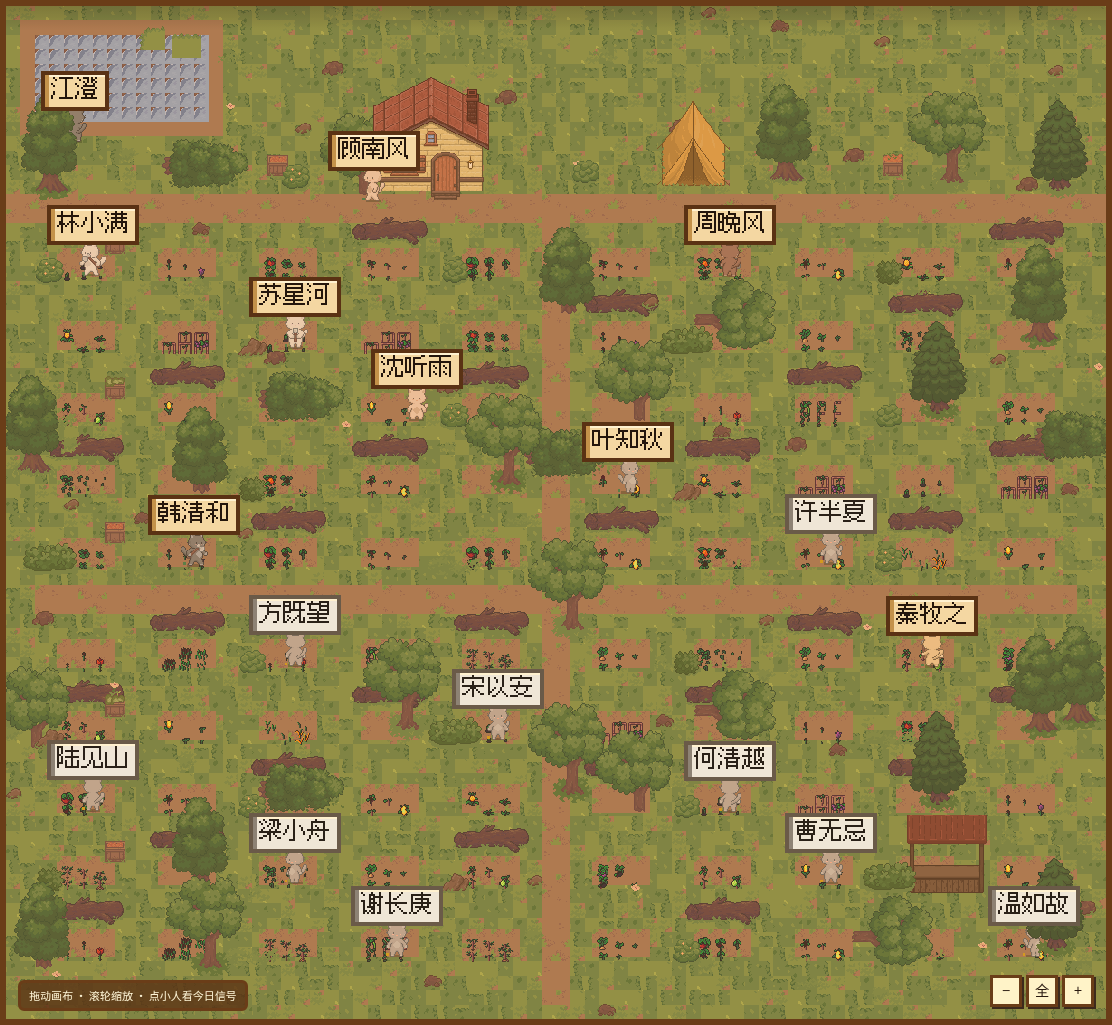
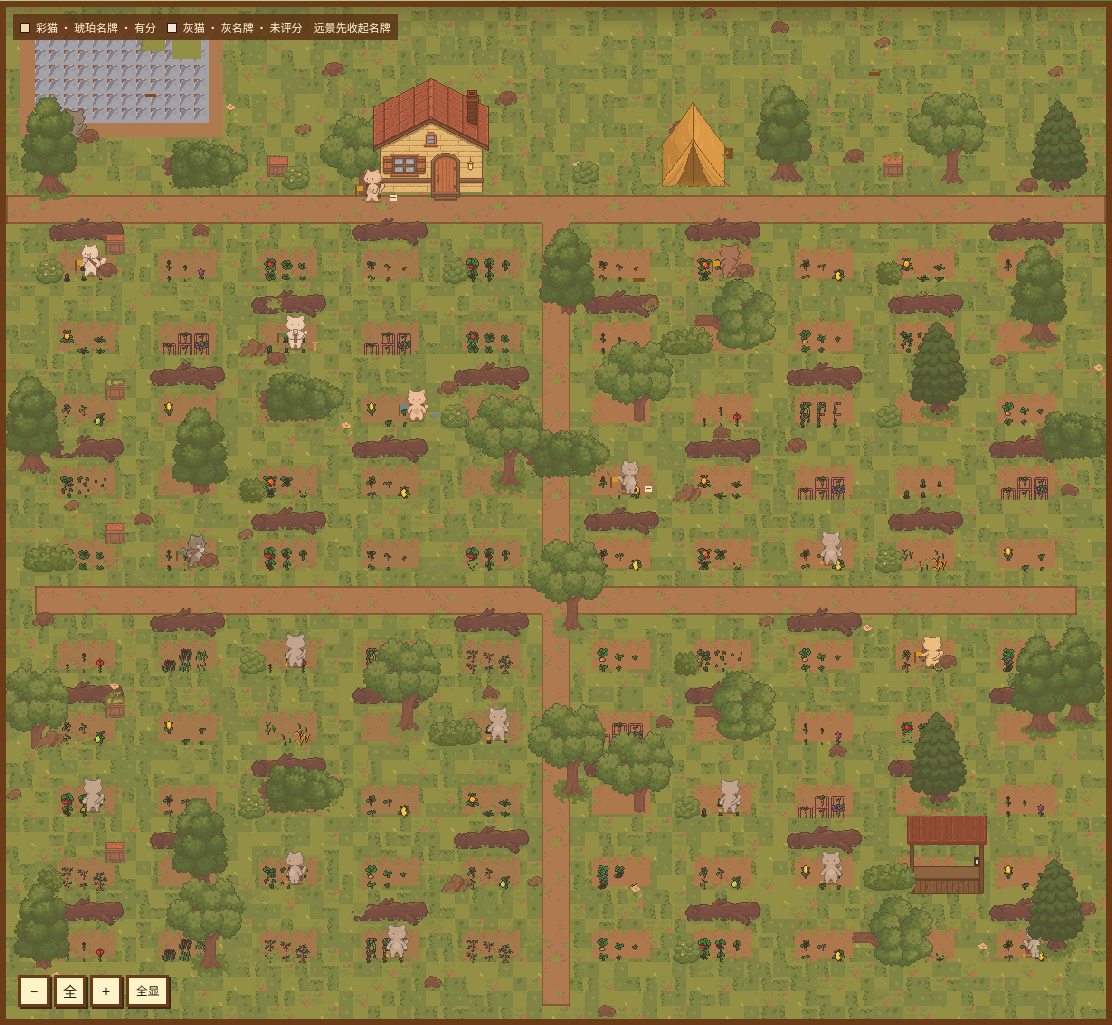
Refresh quiet-mode visual baselines and match unscored copy.
The password-wall spec now matches the visible error text, and the README screenshots show the far-zoom map with nameplates tucked away.

diff --git a/e2e/wave-c.spec.ts b/e2e/wave-c.spec.ts
@@ -6,7 +6,7 @@ test("password wall rejects a wrong password and accepts Enter", async ({ page }
   await page.getByTestId("login-password").fill("not-the-site-password");
   await page.getByTestId("login-submit").click();
   await expect(page).toHaveURL(/error=password/);
-  await expect(page.getByRole("alert")).toContainText("密码不对");
+  await expect(page.getByText("密码不对，再试一次。")).toBeVisible();
 
   const password = process.env.SITE_PASSWORD ?? "";
   await page.getByTestId("login-password").fill(password);

diff --git a/README.md b/README.md
@@ -55,7 +55,7 @@ base64 -w 0 data/private/seed.json
 | `VILLAGE_ROSTER_B64` | 可选。覆盖演示名册 |
 | `VILLAGE_SEED_B64` | 可选。覆盖演示种子 |
 
-名册上的每个人都会进村。当日分数里 `work` / `fish` / `on_task` 至少有一项不是 0 的人按分数做动画；其余人是灰色未评分，点开写着「今日暂无评分」。`scored: false`、缺数字，或三项雷达都是 0，都按未评分处理。
+名册上的每个人都会进村。当日分数里 `work` / `fish` / `on_task` 至少有一项不是 0 的人按分数做动画；其余人是灰色未评分，点开写着「名册里有这个人，这一评分日没有三项雷达数字，不会编造。」`scored: false`、缺数字，或三项雷达都是 0，都按未评分处理。
 
 ## 部署到 Vercel
 

diff --git a/docs/TUTORIAL.md b/docs/TUTORIAL.md
@@ -26,7 +26,7 @@ npm run dev
 
 浏览器打开 [http://127.0.0.1:43123](http://127.0.0.1:43123)。用你刚写的站点密码登录。
 
-默认分数来自 `data/demo/seed.json`，日期 `2026-09-24`，人物是林小满、周晚风这一组虚构名字。灰色的人是未评分，点开是「今日暂无评分」。
+默认分数来自 `data/demo/seed.json`，日期 `2026-09-24`，人物是林小满、周晚风这一组虚构名字。灰色的人是未评分，点开写着「名册里有这个人，这一评分日没有三项雷达数字，不会编造。」
 
 ## 3. 换成你自己的一份演示分数
 
